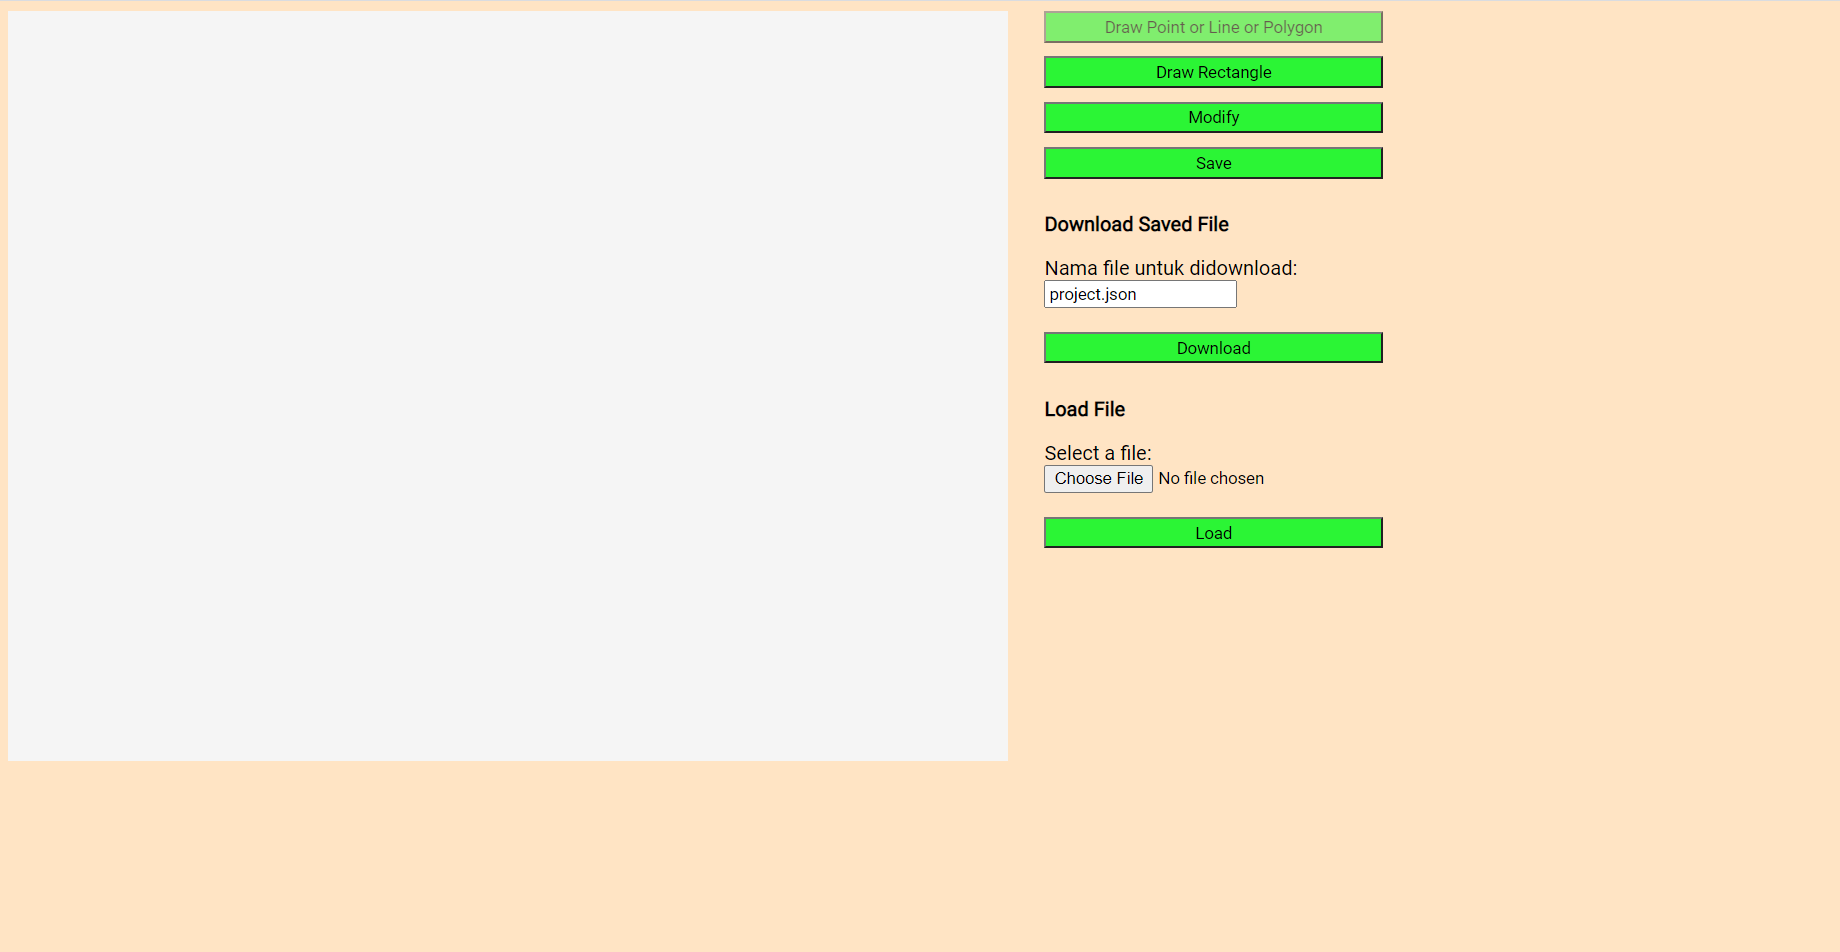
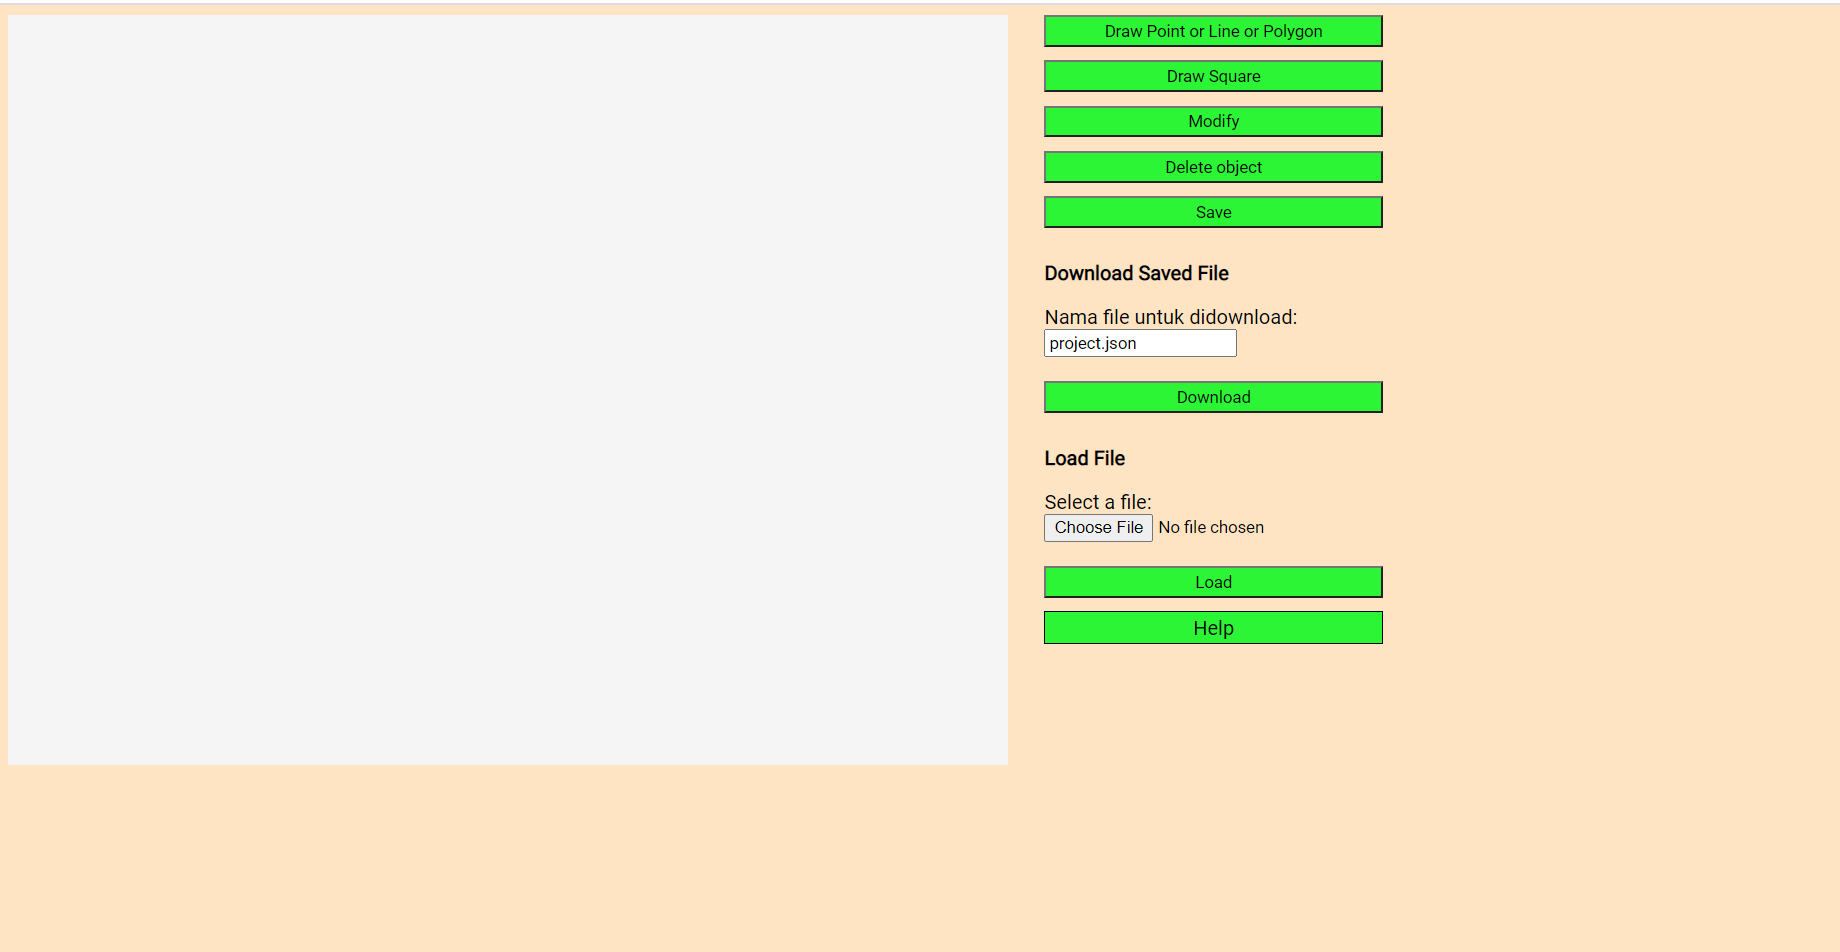
help cad carousel

Changed region(s): [[0.5576, 0.2742, 0.7745, 0.7006], [0.0, 0.0, 1.0, 0.2437], [0.0, 0.792, 0.5266, 0.8225]]

diff --git a/src/help.html b/src/help.html
@@ -4,40 +4,98 @@
     <meta charset="UTF-8">
     <meta http-equiv="X-UA-Compatible" content="IE=edge">
     <meta name="viewport" content="width=device-width, initial-scale=1.0">
+    <link rel="stylesheet" href="./css/help.css">
     <title>CAD - HELP</title>
 </head>
 <body>
+    <div>CAD - GUIDE AND DOCUMENTATION</div>
     <div class="slideshow-container">
-        <div class="slides">
+
+        <!-- All image -->
+        <div class="slides fading">
             <div class="number-text">1</div>
             <img src="./img/tampilan-awal.png" style="width: 100%;">
             <div class="text">Ini merupakan tampilan awal CAD</div>
         </div>
-        <div class="slides">
+        <div class="slides fading">
             <div class="number-text">2</div>
-            <img src="./img/draw-point.png" style="width: 100%;">
+            <img src="./img/draw-point.gif" style="width: 100%;">
             <div class="text">Klik tombol draw point or line or polygon lalu klik pada canvas untuk membuat point, kemudian klik tombol done</div>
         </div>
-        <div class="slides">
+        <div class="slides fading">
             <div class="number-text">3</div>
-            <img src="./img/draw-line.png" style="width: 100%;">
-            <div class="text">Klik tombol draw point or line or polygon lalu klik pada canvas pada dua tempat berbeda untuk membuat 2 titik</div>
+            <img src="./img/draw-line.gif" style="width: 100%;">
+            <div class="text">Klik tombol draw point or line or polygon lalu klik pada canvas pada dua tempat berbeda untuk membuat 2 titik. Kemudian klik tombol done dan line akan terbentuk</div>
         </div>
-        <div class="slides">
+        <div class="slides fading">
             <div class="number-text">4</div>
-            <img src="./img/draw-line-2.png" style="width: 100%;">
-            <div class="text">Klik tombol done dan line akan terbentuk</div>
+            <img src="./img/draw-poly.gif" style="width: 100%;">
+            <div class="text">Klik tombol draw point or line or polygon lalu klik pada canvas pada tiga atau lebih tempat berbeda untuk membuat banyak titik. Kemudian klik tombol done dan polygon akan terbentuk</div>
         </div>
-        <div class="slides">
+        <div class="slides fading">
             <div class="number-text">5</div>
-            <img src="./img/draw-poly.png" style="width: 100%;">
-            <div class="text">Klik tombol draw point or line or polygon lalu klik pada canvas pada tiga atau lebih tempat berbeda untuk membuat banyak titik</div>
+            <img src="./img/draw-square.gif" style="width: 100%;">
+            <div class="text">Klik tombol draw square lalu pada canvas klik pada suatu area dan geser mouse anda. Ketika mouse dilepas gambar square telah dibentuk</div>
         </div>
-        <div class="slides">
+        <div class="slides fading">
             <div class="number-text">6</div>
-            <img src="./img/draw-poly-2.png" style="width: 100%;">
-            <div class="text">Klik tombol done dan polygon akan terbentuk</div>
+            <img src="./img/modify.gif" style="width: 100%;">
+            <div class="text">Buat sebuah objek baru, lalu klik tombol modify maka akan muncul pilihan move, resize, dan change color</div>
         </div>
+        <div class="slides fading">
+            <div class="number-text">7</div>
+            <img src="./img/modify-move.gif" style="width: 100%;">
+            <div class="text">Untuk memindahkan objek, klik tombol move lalu klik dan geser objek pada canvas yang diinginkan</div>
+        </div>
+        <div class="slides fading">
+            <div class="number-text">8</div>
+            <img src="./img/modify-resize.gif" style="width: 100%;">
+            <div class="text">Untuk mengubah ukuran objek, klik tombol resize dan klik objek lalu tarik dengan menggunakan mouse, maka objek akan mengalami perubahan ukuran</div>
+        </div>
+        <div class="slides fading">
+            <div class="number-text">9</div>
+            <img src="./img/modify-color.gif" style="width: 100%;">
+            <div class="text">Untuk mengubah warna objek, klik tombol change color dan pilih warna yang diinginkan, lalu klik objek yang ingin diubah warnanya</div>
+        </div>
+        <div class="slides fading">
+            <div class="number-text">10</div>
+            <img src="./img/delete.gif" style="width: 100%;">
+            <div class="text">Pada canvas yang terdiri dari beberapa objek, klik tombol delete object dan klik objek yang ingin dihapus pada canvas</div>
+        </div>
+        <div class="slides fading">
+            <div class="number-text">11</div>
+            <img src="./img/save-download.gif" style="width: 100%;">
+            <div class="text">Untuk menyimpan objek yang telah digambar, klik save lalu download. Nama file yang didownload dapat diubah</div>
+        </div>
+        <div class="slides fading">
+            <div class="number-text">12</div>
+            <img src="./img/load.gif" style="width: 100%;">
+            <div class="text">Untuk memuat kembali objek dari file, klik choose file lalu pilih file dan open, kemudian klik tombol load dan objek pada file akan dimuat</div>
+        </div>
+
+
+        <!-- Next and previous button -->
+        <a class="prev" onclick="changeSlide(-1)">&#10094;</a>
+        <a class="next" onclick="changeSlide(1)">&#10095;</a>
     </div>
+    <br><br>
+
+    <!-- Current slide dot -->
+    <div style="text-align: center;">
+        <span class="dots" onclick="curSlide(1)"></span>
+        <span class="dots" onclick="curSlide(2)"></span>
+        <span class="dots" onclick="curSlide(3)"></span>
+        <span class="dots" onclick="curSlide(4)"></span>
+        <span class="dots" onclick="curSlide(5)"></span>
+        <span class="dots" onclick="curSlide(6)"></span>
+        <span class="dots" onclick="curSlide(7)"></span>
+        <span class="dots" onclick="curSlide(8)"></span>
+        <span class="dots" onclick="curSlide(9)"></span>
+        <span class="dots" onclick="curSlide(10)"></span>
+        <span class="dots" onclick="curSlide(11)"></span>
+        <span class="dots" onclick="curSlide(12)"></span>
+    </div>
+
+    <script src="./js/help.js"></script>
 </body>
 </html>

diff --git a/src/css/help.css b/src/css/help.css
@@ -1,0 +1,87 @@
+* {
+    box-sizing: border-box;
+}
+
+.slideshow-container {
+    max-width: 1200px;
+    position: relative;
+    margin: 2% auto 0;
+}
+
+.slides {
+    display: none;
+}
+
+.prev, .next {
+    cursor: pointer;
+    position: absolute;
+    top: 50%;
+    width: auto;
+    margin-top: -22px;
+    padding: 10px;
+    color: red;
+    font-weight: bold;
+    transition: 0.6s ease;
+    user-select: none;
+}
+
+.prev {
+    border-radius: 0 3px 3px 0;
+}
+
+.next {
+    right: 0;
+    border-radius: 3px 0 0 3px;
+}
+
+.prev:hover, .next:hover {
+    background-color: black;
+}
+
+.text {
+    position: absolute;
+    bottom: -20px;
+    width: 100%;
+    text-align: center;
+}
+
+.dots {
+    cursor: pointer;
+    height: 12px;
+    width: 12px;
+    margin: 0 2px;
+    background-color: rgb(134, 134, 134);
+    border-radius: 50%;
+    display: inline-block;
+    transition: 0.6s ease;
+}
+
+.dotActv, .dot:hover {
+    background-color: black;
+}
+  
+/* Fading animation */
+.fading {
+    -webkit-animation-name: fade;
+    -webkit-animation-duration: 1.5s;
+    animation-name: fade;
+    animation-duration: 1.5s;
+}
+
+@-webkit-keyframes fade {
+    from {opacity: .4}
+    to {opacity: 1}
+}
+
+@keyframes fade {
+    from {opacity: .4}
+    to {opacity: 1}
+}
+
+.number-text {
+    color: black;
+    font-weight: bold;
+    position: absolute;
+    bottom: 0;
+    right: 0;
+}

diff --git a/src/js/help.js b/src/js/help.js
@@ -1,0 +1,32 @@
+var idx = 1;
+
+activeSlide(idx);
+
+function activeSlide(x) {
+    var i;
+    var slides = document.getElementsByClassName("slides");
+    var dots = document.getElementsByClassName("dots");
+    if (x > slides.length) {
+        idx = 1
+    }
+    if (x < 1) {
+        idx = slides.length
+    }
+
+    for (i = 0; i < slides.length; i++) {
+        slides[i].style.display = "none";
+    }
+    for (i = 0; i < dots.length; i++) {
+        dots[i].className = dots[i].className.replace(" dotActv", "");
+    }
+    slides[idx-1].style.display = "block";
+    dots[idx-1].className += " dotActv";
+}
+
+function changeSlide(x) {
+    activeSlide(idx += x);
+}
+
+function curSlide(x) {
+    activeSlide(idx = x);
+}

diff --git a/src/index.html b/src/index.html
@@ -45,6 +45,7 @@
                     <input type="file" id="myfile" name="myfile"><br/><br/>
                     <input class="button-custom-1" id="load-button" type="submit" value="Load">
                 </form>
+                <a type="button" href="./help.html" target="_blank" class="button-custom-a">Help</a>
             </div>
         </div>
         <script src="main.js" type="module"></script>

diff --git a/src/css/index.css b/src/css/index.css
@@ -49,6 +49,16 @@
     background-color: darkkhaki;
 }
 
+.button-custom-a {
+    background-color: rgb(43, 245, 53);
+    border: 1px solid black;
+    display: block;
+    color:black;
+    padding: 1%;
+    text-decoration:none;
+    text-align: center;
+}
+
 button:hover {
     opacity: 0.6;
 }
